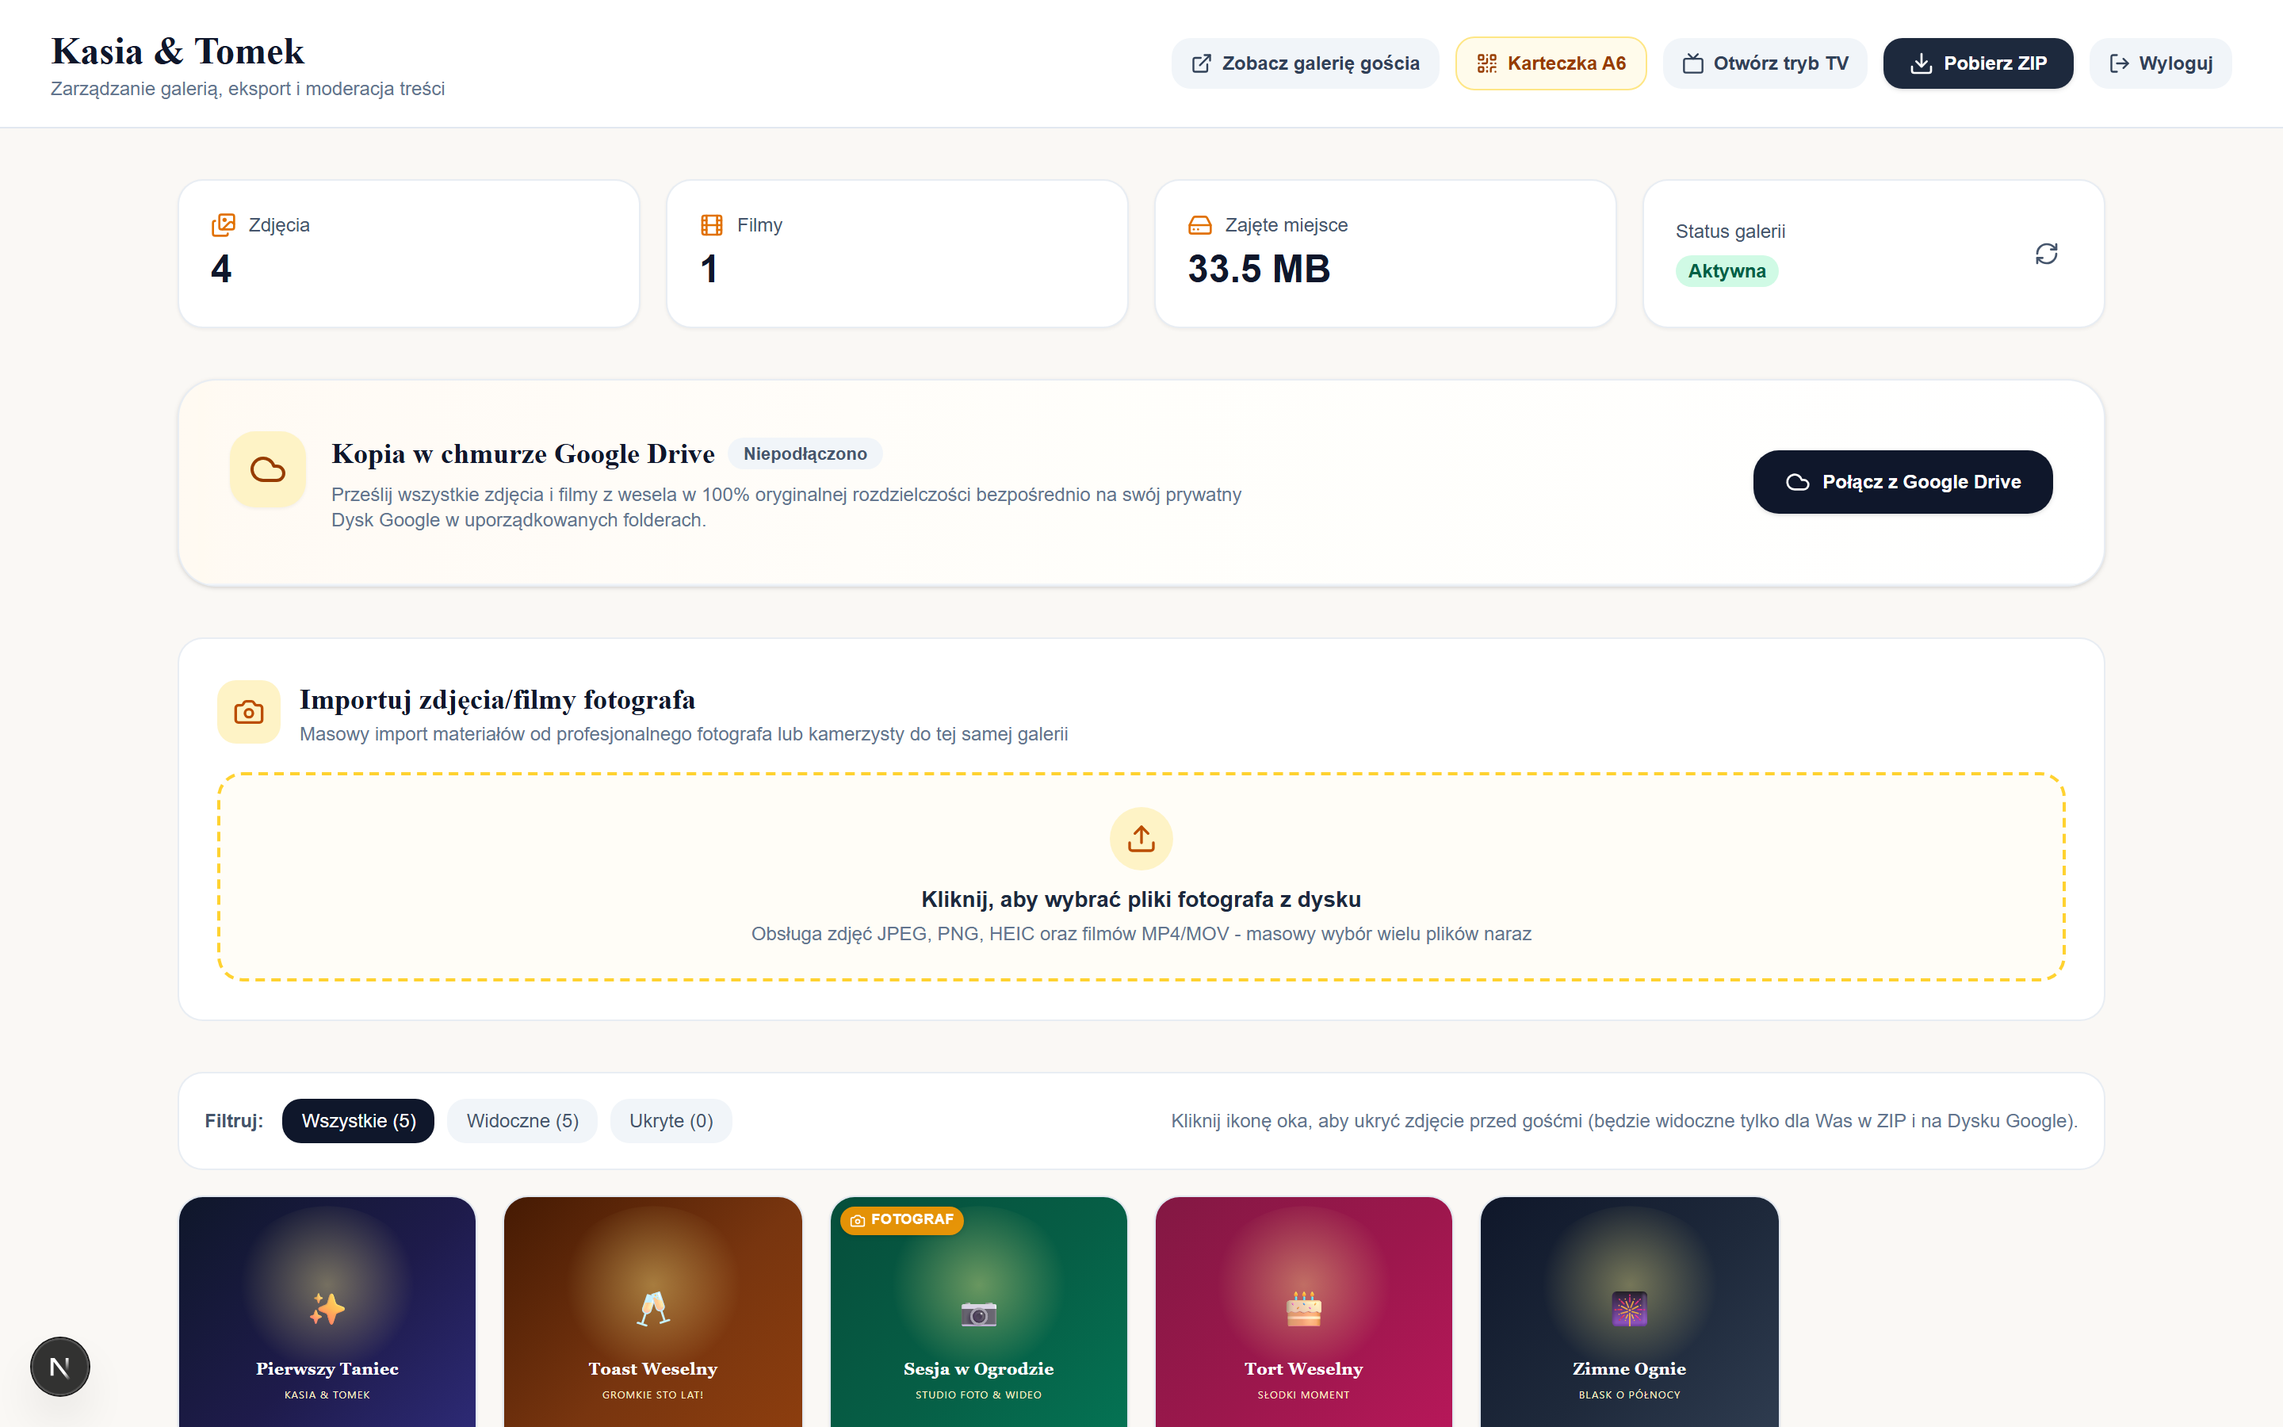
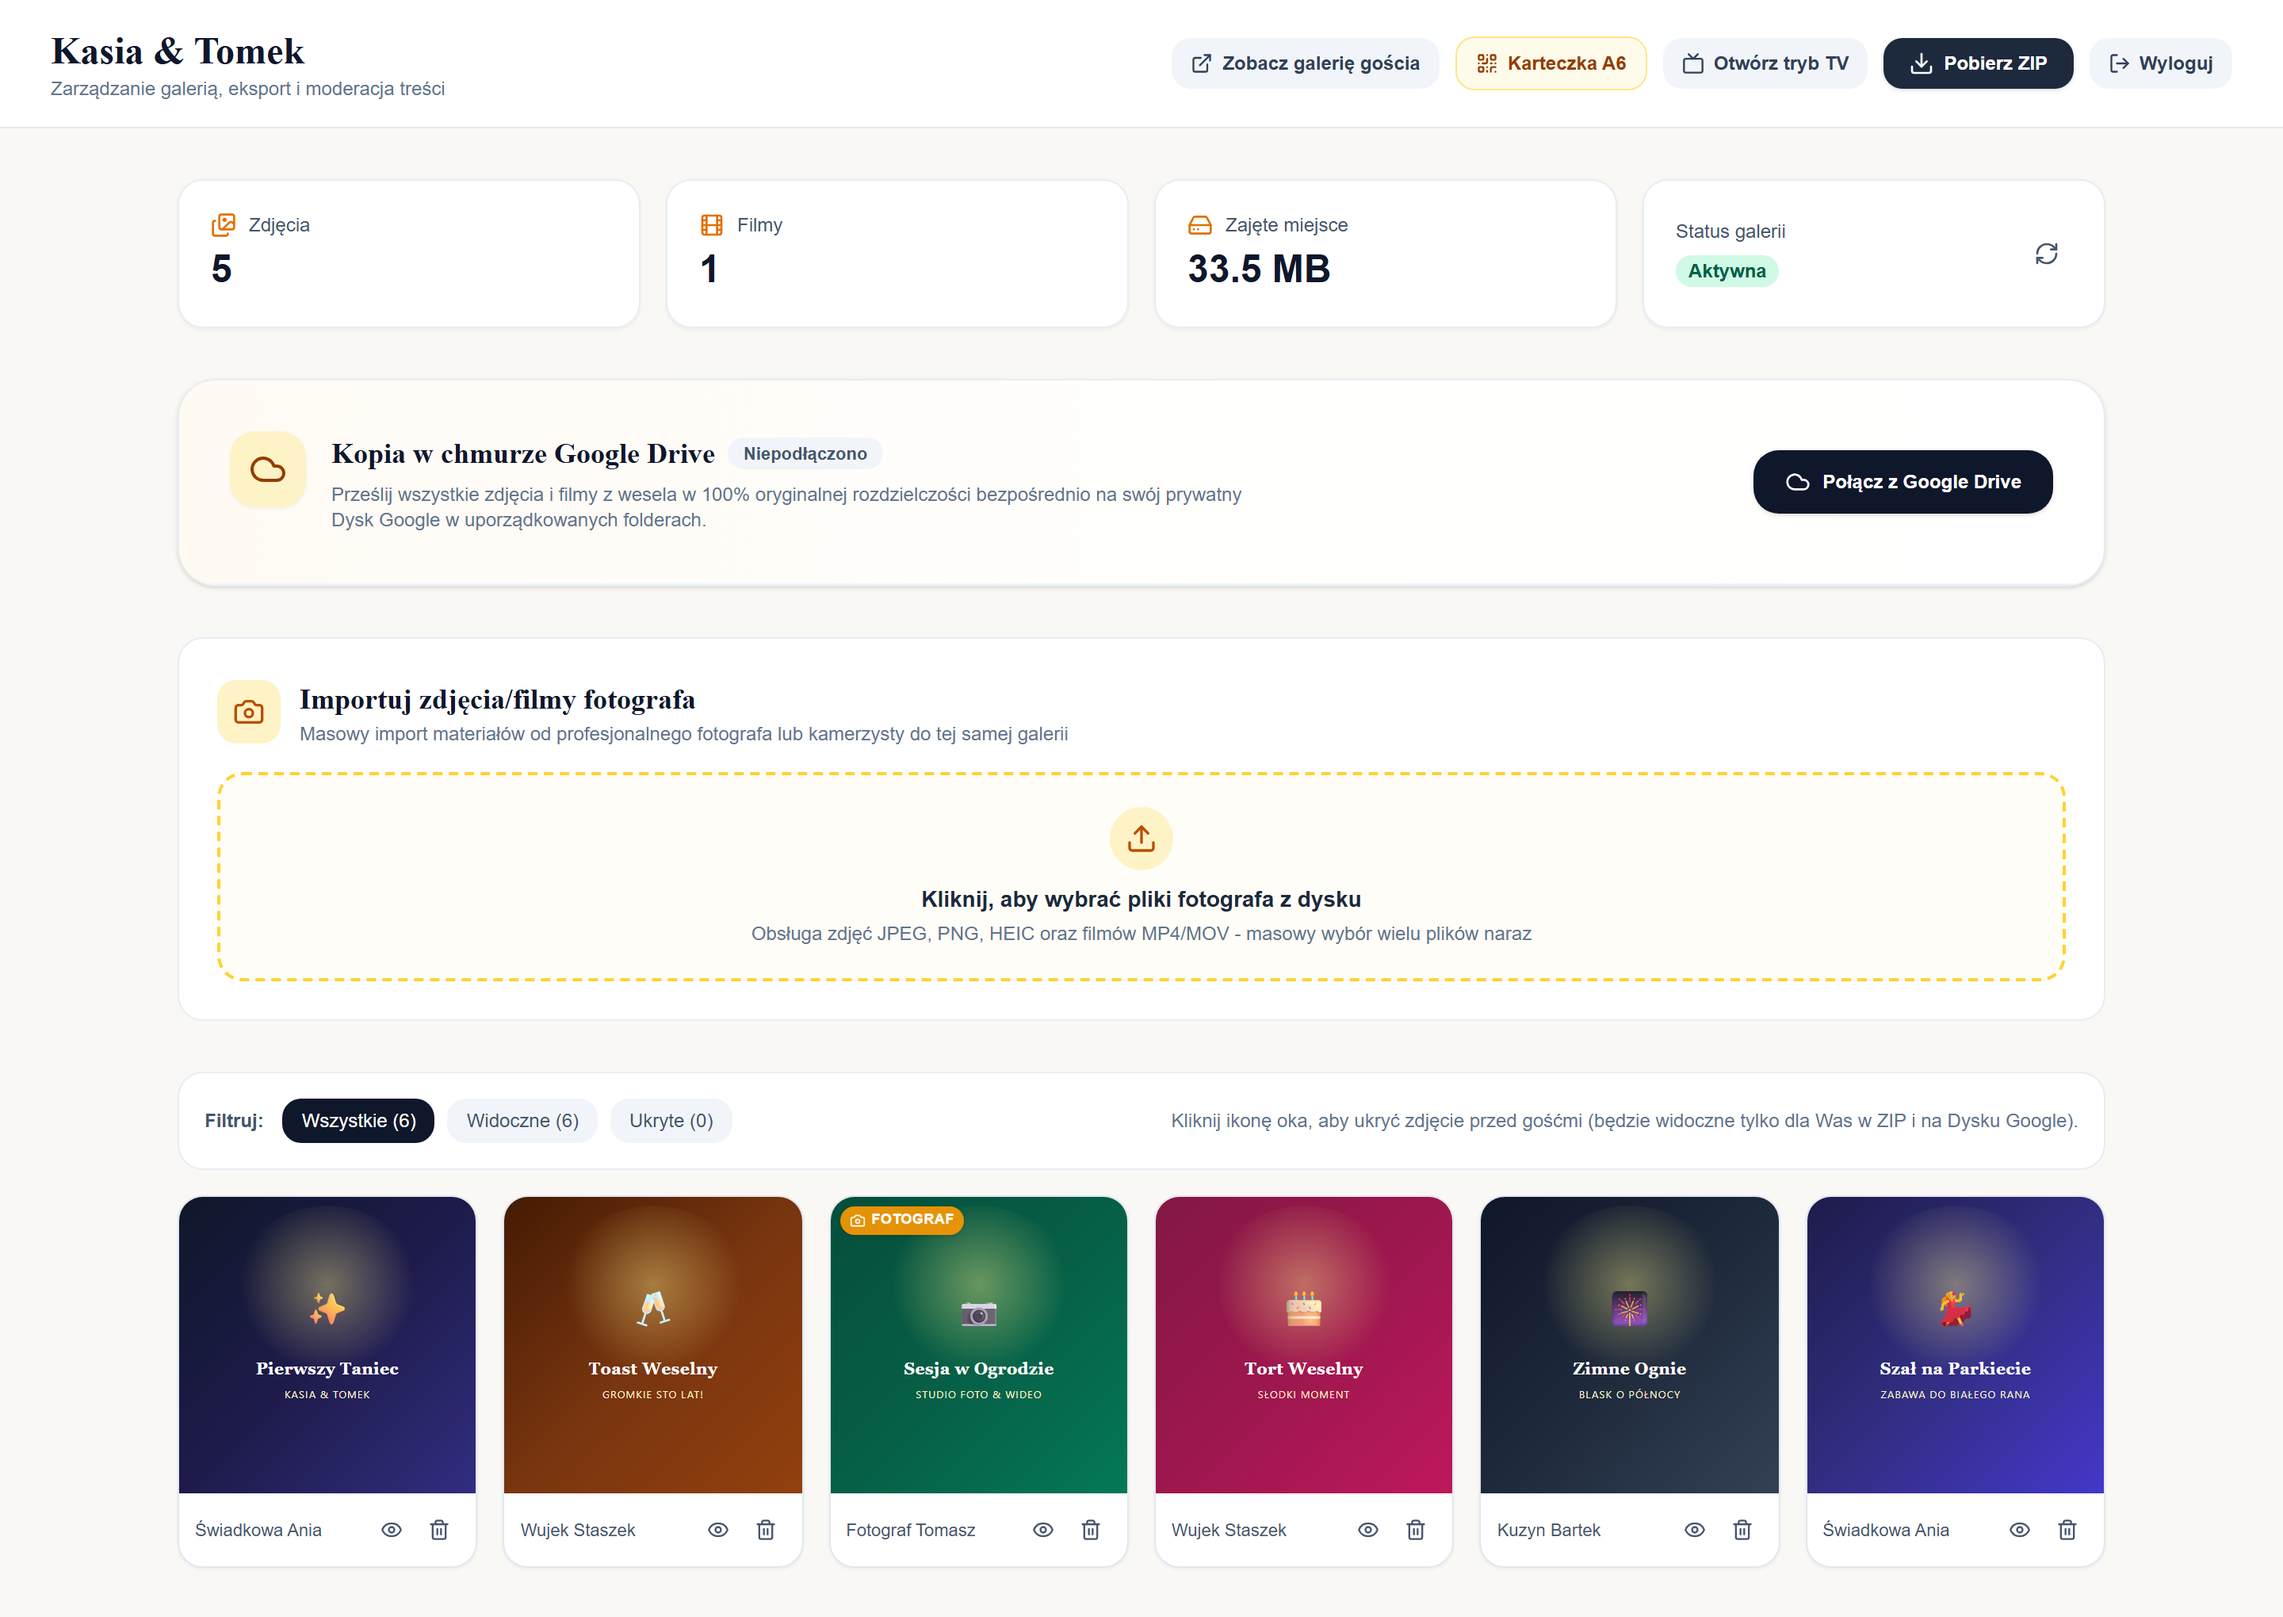
docs(readme): refresh UI screenshots and showcase recent features

diff --git a/scripts/capture-screenshots.ts b/scripts/capture-screenshots.ts
@@ -117,7 +117,7 @@ const MOCK_WEDDING_MEDIA = [
 	},
 	{
 		id: "media-4",
-		uploaderName: "Świadkowa Ania",
+		uploaderName: "Wujek Staszek",
 		source: "guest",
 		fileType: "image",
 		mimeType: "image/jpeg",
@@ -161,6 +161,31 @@ const MOCK_WEDDING_MEDIA = [
 			icon: "🎆",
 			title: "Zimne Ognie o Północy",
 			subtitle: "Niezapomniane wspomnienia",
+			width: 1920,
+			height: 1080,
+		}),
+	},
+	{
+		id: "media-6",
+		uploaderName: "Świadkowa Ania",
+		source: "guest",
+		fileType: "image",
+		mimeType: "image/jpeg",
+		originalFileName: "zabawa_na_parkiecie.jpg",
+		fileSize: 4456448,
+		status: "ready",
+		createdAt: "2026-09-12T23:15:00.000Z",
+		thumbUrl: createWeddingSvg({
+			bgGradient: ["#1e1b4b", "#312e81", "#4338ca"],
+			icon: "💃",
+			title: "Szał na Parkiecie",
+			subtitle: "ZABAWA DO BIAŁEGO RANA",
+		}),
+		rawUrl: createWeddingSvg({
+			bgGradient: ["#1e1b4b", "#312e81", "#4338ca"],
+			icon: "💃",
+			title: "Szał na Parkiecie",
+			subtitle: "Zabawa do białego rana",
 			width: 1920,
 			height: 1080,
 		}),
@@ -213,6 +238,7 @@ const MOCK_GALLERY = {
 	},
 };
 
+// biome-ignore lint/suspicious/noUndeclaredEnvVars: opcjonalny parametr skryptu narzędziowego
 const BASE_URL = process.env.BASE_URL || "http://localhost:3001";
 
 async function hideNextDevOverlay(page: Page) {
@@ -238,9 +264,9 @@ async function enableLiveSseMock(page: Page) {
 	// Mockujemy EventSource po stronie przeglądarki, by galeria miała natychmiast status "Na żywo"
 	await page.addInitScript(() => {
 		class MockEventSource {
-			onopen: ((e: any) => void) | null = null;
-			onmessage: ((e: any) => void) | null = null;
-			onerror: ((e: any) => void) | null = null;
+			onopen: ((e: Event) => void) | null = null;
+			onmessage: ((e: MessageEvent) => void) | null = null;
+			onerror: ((e: Event) => void) | null = null;
 			readyState = 1;
 			constructor(_url: string) {
 				setTimeout(() => {
@@ -251,7 +277,8 @@ async function enableLiveSseMock(page: Page) {
 			}
 			close() {}
 		}
-		(window as any).EventSource = MockEventSource;
+		(window as unknown as { EventSource: unknown }).EventSource =
+			MockEventSource;
 	});
 }
 
@@ -452,11 +479,6 @@ async function main() {
 			path: path.join(outputDir, "05-table-card-creator.png"),
 			fullPage: false,
 		});
-		// Zachowujemy też kompatybilność wsteczną
-		fs.copyFileSync(
-			path.join(outputDir, "05-table-card-creator.png"),
-			path.join(outputDir, "03-table-card-creator.png"),
-		);
 		console.log(
 			"✓ 05-table-card-creator.png (Generator winietek A6 z podglądem na żywo)",
 		);
@@ -499,11 +521,6 @@ async function main() {
 			path: path.join(outputDir, "06-owner-dashboard.png"),
 			fullPage: false,
 		});
-		// Kompatybilność wsteczna
-		fs.copyFileSync(
-			path.join(outputDir, "06-owner-dashboard.png"),
-			path.join(outputDir, "04-owner-dashboard.png"),
-		);
 		console.log(
 			"✓ 06-owner-dashboard.png (Panel Pary Młodej: moderacja, import fotografa, życzenia, TV)",
 		);
@@ -537,8 +554,8 @@ async function main() {
 							slug: "kasia-i-tomek",
 							coupleNames: "Kasia & Tomek",
 							weddingDate: "12.09.2026",
-							contactEmail: "kasia.tomek@example.com",
-							filesCount: 248,
+							ownerEmail: "kasia.tomek@example.com",
+							totalFiles: 248,
 							totalBytes: 1428490188,
 							status: "active",
 						},
@@ -547,8 +564,8 @@ async function main() {
 							slug: "ola-i-michal",
 							coupleNames: "Ola & Michał",
 							weddingDate: "26.09.2026",
-							contactEmail: "ola.michal@example.com",
-							filesCount: 112,
+							ownerEmail: "ola.michal@example.com",
+							totalFiles: 112,
 							totalBytes: 542113840,
 							status: "active",
 						},
@@ -557,8 +574,8 @@ async function main() {
 							slug: "magda-i-piotr",
 							coupleNames: "Magda & Piotr",
 							weddingDate: "10.10.2026",
-							contactEmail: "magda.piotr@example.com",
-							filesCount: 0,
+							ownerEmail: "magda.piotr@example.com",
+							totalFiles: 0,
 							totalBytes: 0,
 							status: "active",
 						},
@@ -578,12 +595,7 @@ async function main() {
 			await adminPwd.fill("admin123");
 			await adminPage.getByRole("button", { name: "Zaloguj się" }).click();
 			// Czekamy na załadowanie tabeli z galeriami
-			await adminPage.waitForSelector(
-				"table, [role='table'], text=Kasia & Tomek",
-				{
-					timeout: 5000,
-				},
-			);
+			await adminPage.getByText("Kasia & Tomek").waitFor({ timeout: 5000 });
 			await adminPage.waitForTimeout(500);
 		}
 
@@ -592,11 +604,6 @@ async function main() {
 			path: path.join(outputDir, "07-admin-panel.png"),
 			fullPage: false,
 		});
-		// Kompatybilność wsteczna
-		fs.copyFileSync(
-			path.join(outputDir, "07-admin-panel.png"),
-			path.join(outputDir, "05-admin-panel.png"),
-		);
 		console.log(
 			"✓ 07-admin-panel.png (Panel Administratora ze statystykami i listą galerii)",
 		);

diff --git a/README.md b/README.md
@@ -17,34 +17,43 @@ Kompletna, samoobsługowa aplikacja internetowa do zbierania zdjęć i filmów z
 
 ## 📸 Zrzuty Ekranu
 
-### 📱 Doświadczenie Gościa Weselnego (100% Mobile First)
-Bez instalacji aplikacji ze sklepów i bez rejestracji – gość skanuje kod QR ze stolika, natychmiast przegląda zdjęcia na żywo i wysyła własne prosto z rolki aparatu dzięki wznawialnemu protokołowi TUS:
+### 📱 Doświadczenie Gościa Weselnego (100% Mobile First & PWA)
+Bez instalacji aplikacji ze sklepów i bez rejestracji – gość skanuje kod QR ze stolika, natychmiast przegląda zdjęcia na żywo, rywalizuje w rankingu TOP 3, wysyła ciepłe słowa w Księdze Życzeń oraz robi zdjęcia w wirtualnym Photobooth:
 
 <p align="center">
-  <img src="docs/screenshots/01-guest-gallery-mobile.png" width="370" alt="Galeria gościa weselnego na żywo" />
-  &nbsp;&nbsp;&nbsp;&nbsp;
-  <img src="docs/screenshots/02-upload-drawer-mobile.png" width="370" alt="Drawer wznawialnego uploadu TUS z podpisem" />
+  <img src="docs/screenshots/01-guest-gallery-mobile.png" width="270" alt="Galeria gościa weselnego z rankingiem TOP 3 i odznaką fotografa" />
+  &nbsp;&nbsp;
+  <img src="docs/screenshots/02-upload-drawer-mobile.png" width="270" alt="Drawer wznawialnego uploadu TUS z opcją aparatu Photobooth" />
+  &nbsp;&nbsp;
+  <img src="docs/screenshots/03-guest-wishes-mobile.png" width="270" alt="Księga Życzeń gości na żywo z dedykowanymi wpisami" />
+</p>
+
+### 📺 Tryb TV na Sali Weselnej (Pokaz Slajdów na Żywo)
+Dedykowany, publiczny tryb tylko-do-odczytu na telewizor lub rzutnik w sali weselnej – automatyczna rotacja nowych materiałów w pełnej rozdzielczości z dynamicznym kodem QR w rogu dla dołączających gości:
+
+<p align="center">
+  <img src="docs/screenshots/04-tv-slideshow.png" width="850" alt="Tryb TV z pokazem slajdów na żywo i kodem QR" />
 </p>
 
 ### 💌 Generator Winietek na Stoliki Weselne (Format A6 / 300 DPI)
 Wbudowany wektorowy generator wizytówek na stoły z dynamicznym kodem QR, wyborem eleganckich motywów kolorystycznych i opcją natychmiastowego druku:
 
 <p align="center">
-  <img src="docs/screenshots/03-table-card-creator.png" width="850" alt="Generator winietek na stoliki weselne A6" />
+  <img src="docs/screenshots/05-table-card-creator.png" width="850" alt="Generator winietek na stoliki weselne A6" />
 </p>
 
-### 💍 Panel Pary Młodej (Moderacja Treści, Eksport ZIP i Google Drive)
-Dedykowany panel właściciela galerii chroniony hasłem – statystyki w czasie rzeczywistym, moderacja widoczności zdjęć jednym kliknięciem, pobieranie strumieniowego archiwum ZIP oraz automatyczny backup do chmury Google Drive:
+### 💍 Panel Pary Młodej (Moderacja Treści, Import Fotografa, Księga Życzeń i Google Drive)
+Dedykowany panel właściciela galerii chroniony utwardzoną sesją – statystyki w czasie rzeczywistym, moderacja widoczności zdjęć i życzeń jednym kliknięciem, masowy import materiałów fotografa z odznaką, pobieranie strumieniowego archiwum ZIP oraz automatyczny backup do chmury Google Drive:
 
 <p align="center">
-  <img src="docs/screenshots/04-owner-dashboard.png" width="850" alt="Panel Pary Młodej z moderacją i integracją Google Drive" />
+  <img src="docs/screenshots/06-owner-dashboard.png" width="850" alt="Panel Pary Młodej z moderacją na żywo, importem fotografa i Google Drive" />
 </p>
 
 ### ⚙ Panel Główny Administratora Systemu
 Szybki podgląd wszystkich ślubów, zarządzanie przestrzenią dyskową oraz błyskawiczne tworzenie nowych wesel:
 
 <p align="center">
-  <img src="docs/screenshots/05-admin-panel.png" width="850" alt="Panel Administratora Systemu WeddingDrop" />
+  <img src="docs/screenshots/07-admin-panel.png" width="850" alt="Panel Administratora Systemu WeddingDrop" />
 </p>
 
 ---
